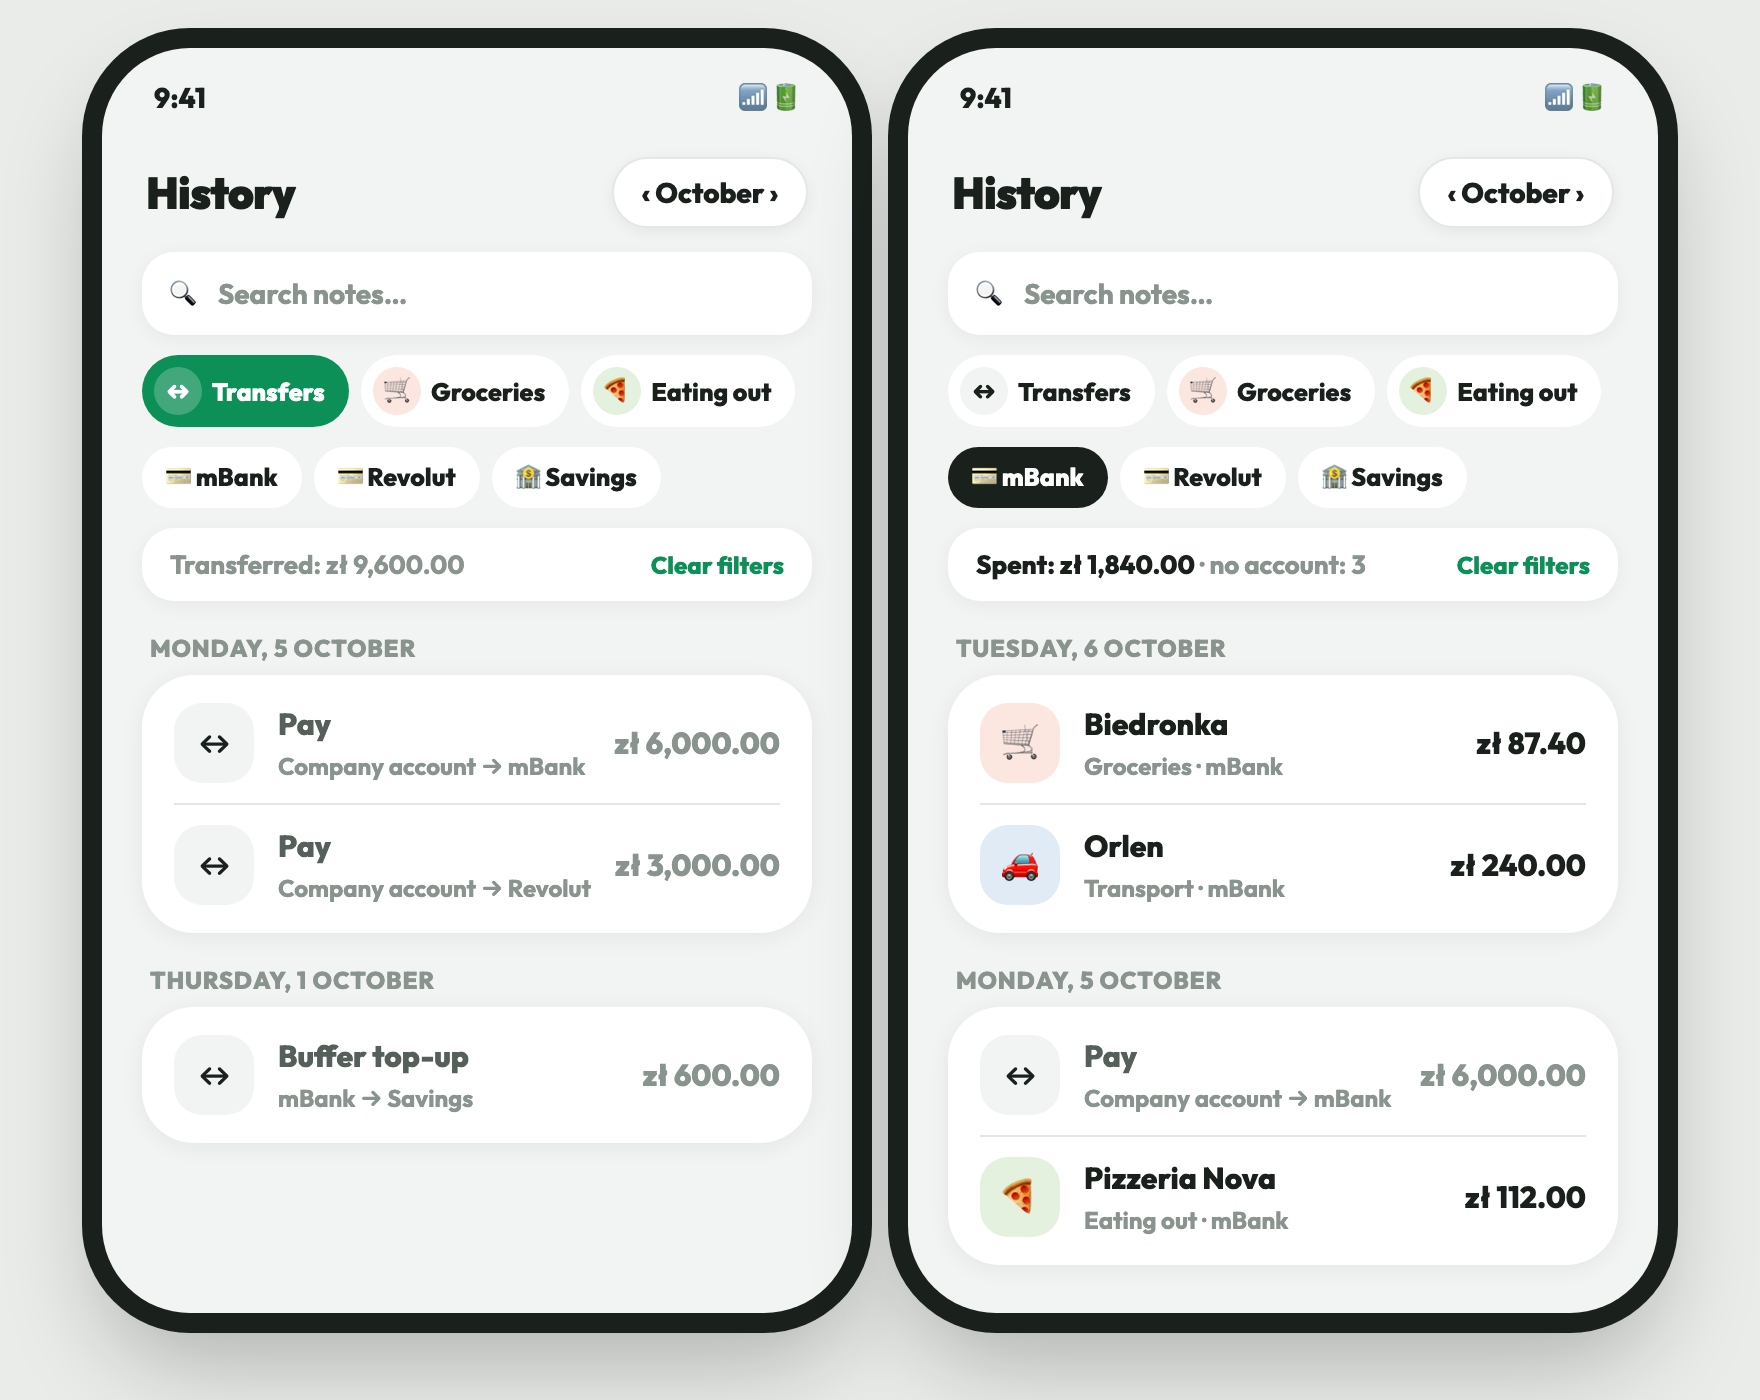
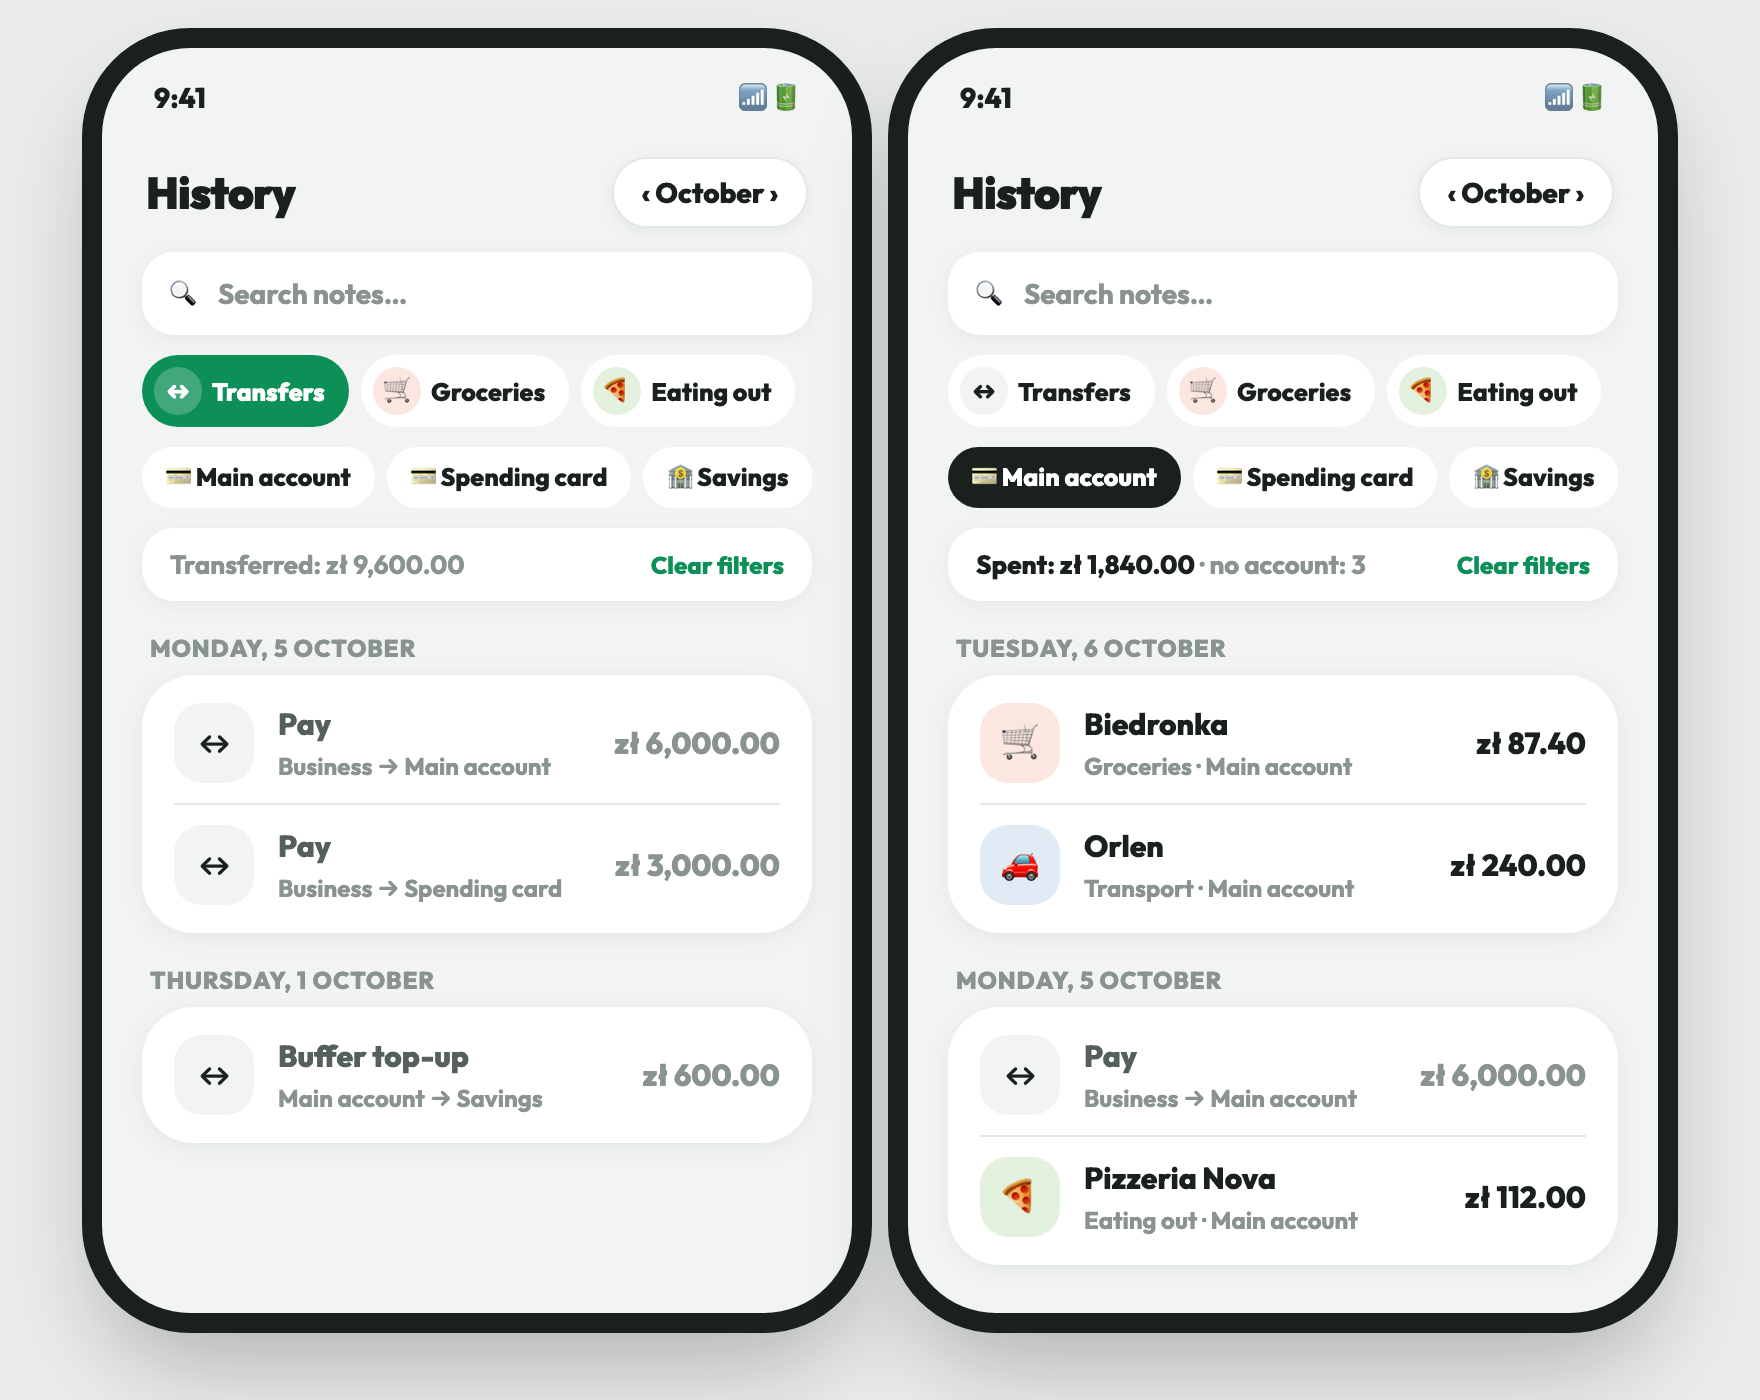
Generic account names across the post's screenshots too
Main account, Spending card, Business, Savings: no real bank anywhere
in the pictures now. The transfer lines truncate rather than wrap, the
way the app itself renders them.

diff --git a/blog-shots/historia-filtry.html b/blog-shots/historia-filtry.html
@@ -25,9 +25,9 @@
   .tx:last-child { border-bottom:none; }
   .tx .em { width:40px; height:40px; border-radius:14px; display:grid; place-items:center; font-size:18px; flex-shrink:0; background:var(--well); }
   .tx .info { flex:1; min-width:0; }
-  .tx .name { font-size:15px; font-weight:800; }
+  .tx .name { font-size:15px; font-weight:800; white-space:nowrap; overflow:hidden; text-overflow:ellipsis; }
   .tx .name.t { color:var(--ink2); }
-  .tx .meta { font-size:12px; font-weight:700; color:var(--muted); }
+  .tx .meta { font-size:12px; font-weight:700; color:var(--muted); white-space:nowrap; overflow:hidden; text-overflow:ellipsis; }
   .tx .amt { font-size:15px; font-weight:800; }
   .tx .amt.dim { color:var(--muted); }
 </style>
@@ -42,8 +42,8 @@
       <div class="chip"><span class="em" style="background:color-mix(in srgb, var(--c5) var(--tile-mix), var(--card))">🍕</span>Eating out</div>
     </div>
     <div class="chips">
-      <div class="chip acct">💳 mBank</div>
-      <div class="chip acct">💳 Revolut</div>
+      <div class="chip acct">💳 Main account</div>
+      <div class="chip acct">💳 Spending card</div>
       <div class="chip acct">🏦 Savings</div>
     </div>
     <div class="bar">
@@ -54,12 +54,12 @@
     <div class="list">
       <div class="tx">
         <span class="em">↔</span>
-        <span class="info"><span class="name t">Pay</span><br><span class="meta">Company account → mBank</span></span>
+        <span class="info"><span class="name t">Pay</span><br><span class="meta">Business → Main account</span></span>
         <span class="amt dim">zł 6,000.00</span>
       </div>
       <div class="tx">
         <span class="em">↔</span>
-        <span class="info"><span class="name t">Pay</span><br><span class="meta">Company account → Revolut</span></span>
+        <span class="info"><span class="name t">Pay</span><br><span class="meta">Business → Spending card</span></span>
         <span class="amt dim">zł 3,000.00</span>
       </div>
     </div>
@@ -67,7 +67,7 @@
     <div class="list">
       <div class="tx">
         <span class="em">↔</span>
-        <span class="info"><span class="name t">Buffer top-up</span><br><span class="meta">mBank → Savings</span></span>
+        <span class="info"><span class="name t">Buffer top-up</span><br><span class="meta">Main account → Savings</span></span>
         <span class="amt dim">zł 600.00</span>
       </div>
     </div>
@@ -85,8 +85,8 @@
       <div class="chip"><span class="em" style="background:color-mix(in srgb, var(--c5) var(--tile-mix), var(--card))">🍕</span>Eating out</div>
     </div>
     <div class="chips">
-      <div class="chip acct on">💳 mBank</div>
-      <div class="chip acct">💳 Revolut</div>
+      <div class="chip acct on">💳 Main account</div>
+      <div class="chip acct">💳 Spending card</div>
       <div class="chip acct">🏦 Savings</div>
     </div>
     <div class="bar">
@@ -97,12 +97,12 @@
     <div class="list">
       <div class="tx">
         <span class="em" style="background:color-mix(in srgb, var(--c1) var(--tile-mix), var(--card))">🛒</span>
-        <span class="info"><span class="name">Biedronka</span><br><span class="meta">Groceries · mBank</span></span>
+        <span class="info"><span class="name">Biedronka</span><br><span class="meta">Groceries · Main account</span></span>
         <span class="amt">zł 87.40</span>
       </div>
       <div class="tx">
         <span class="em" style="background:color-mix(in srgb, var(--c7) var(--tile-mix), var(--card))">🚗</span>
-        <span class="info"><span class="name">Orlen</span><br><span class="meta">Transport · mBank</span></span>
+        <span class="info"><span class="name">Orlen</span><br><span class="meta">Transport · Main account</span></span>
         <span class="amt">zł 240.00</span>
       </div>
     </div>
@@ -110,12 +110,12 @@
     <div class="list">
       <div class="tx">
         <span class="em">↔</span>
-        <span class="info"><span class="name t">Pay</span><br><span class="meta">Company account → mBank</span></span>
+        <span class="info"><span class="name t">Pay</span><br><span class="meta">Business → Main account</span></span>
         <span class="amt dim">zł 6,000.00</span>
       </div>
       <div class="tx">
         <span class="em" style="background:color-mix(in srgb, var(--c5) var(--tile-mix), var(--card))">🍕</span>
-        <span class="info"><span class="name">Pizzeria Nova</span><br><span class="meta">Eating out · mBank</span></span>
+        <span class="info"><span class="name">Pizzeria Nova</span><br><span class="meta">Eating out · Main account</span></span>
         <span class="amt">zł 112.00</span>
       </div>
     </div>

diff --git a/blog-shots/pulpit-granica.html b/blog-shots/pulpit-granica.html
@@ -56,17 +56,17 @@
       <h3>Accounts</h3>
       <div class="a">
         <span class="em">💳</span>
-        <span class="info"><span class="nm">mBank <span class="pill">budget</span></span><span class="meta">updated 2 days ago</span></span>
+        <span class="info"><span class="nm">Main account <span class="pill">budget</span></span><span class="meta">updated 2 days ago</span></span>
         <span class="bal">zł 2,410.00</span>
       </div>
       <div class="a">
         <span class="em">💳</span>
-        <span class="info"><span class="nm">Revolut <span class="pill">budget</span></span><span class="meta">updated 2 days ago</span></span>
+        <span class="info"><span class="nm">Spending card <span class="pill">budget</span></span><span class="meta">updated 2 days ago</span></span>
         <span class="bal">zł 980.00</span>
       </div>
       <div class="a">
         <span class="em">💳</span>
-        <span class="info"><span class="nm">Company account</span><span class="meta">updated 5 days ago</span></span>
+        <span class="info"><span class="nm">Business</span><span class="meta">updated 5 days ago</span></span>
         <span class="bal">zł 14,220.00</span>
       </div>
       <div class="a">

diff --git a/blog-shots/featured.html b/blog-shots/featured.html
@@ -66,7 +66,7 @@
     <div class="budget">
       <span class="cap">SAFE TO SPEND</span>
       <div class="col">
-        <div class="chip"><span class="em">💳</span>Current account <span class="pill">budget</span></div>
+        <div class="chip"><span class="em">💳</span>Main account <span class="pill">budget</span></div>
         <div class="chip"><span class="em">💳</span>Spending card <span class="pill">budget</span></div>
       </div>
     </div>
